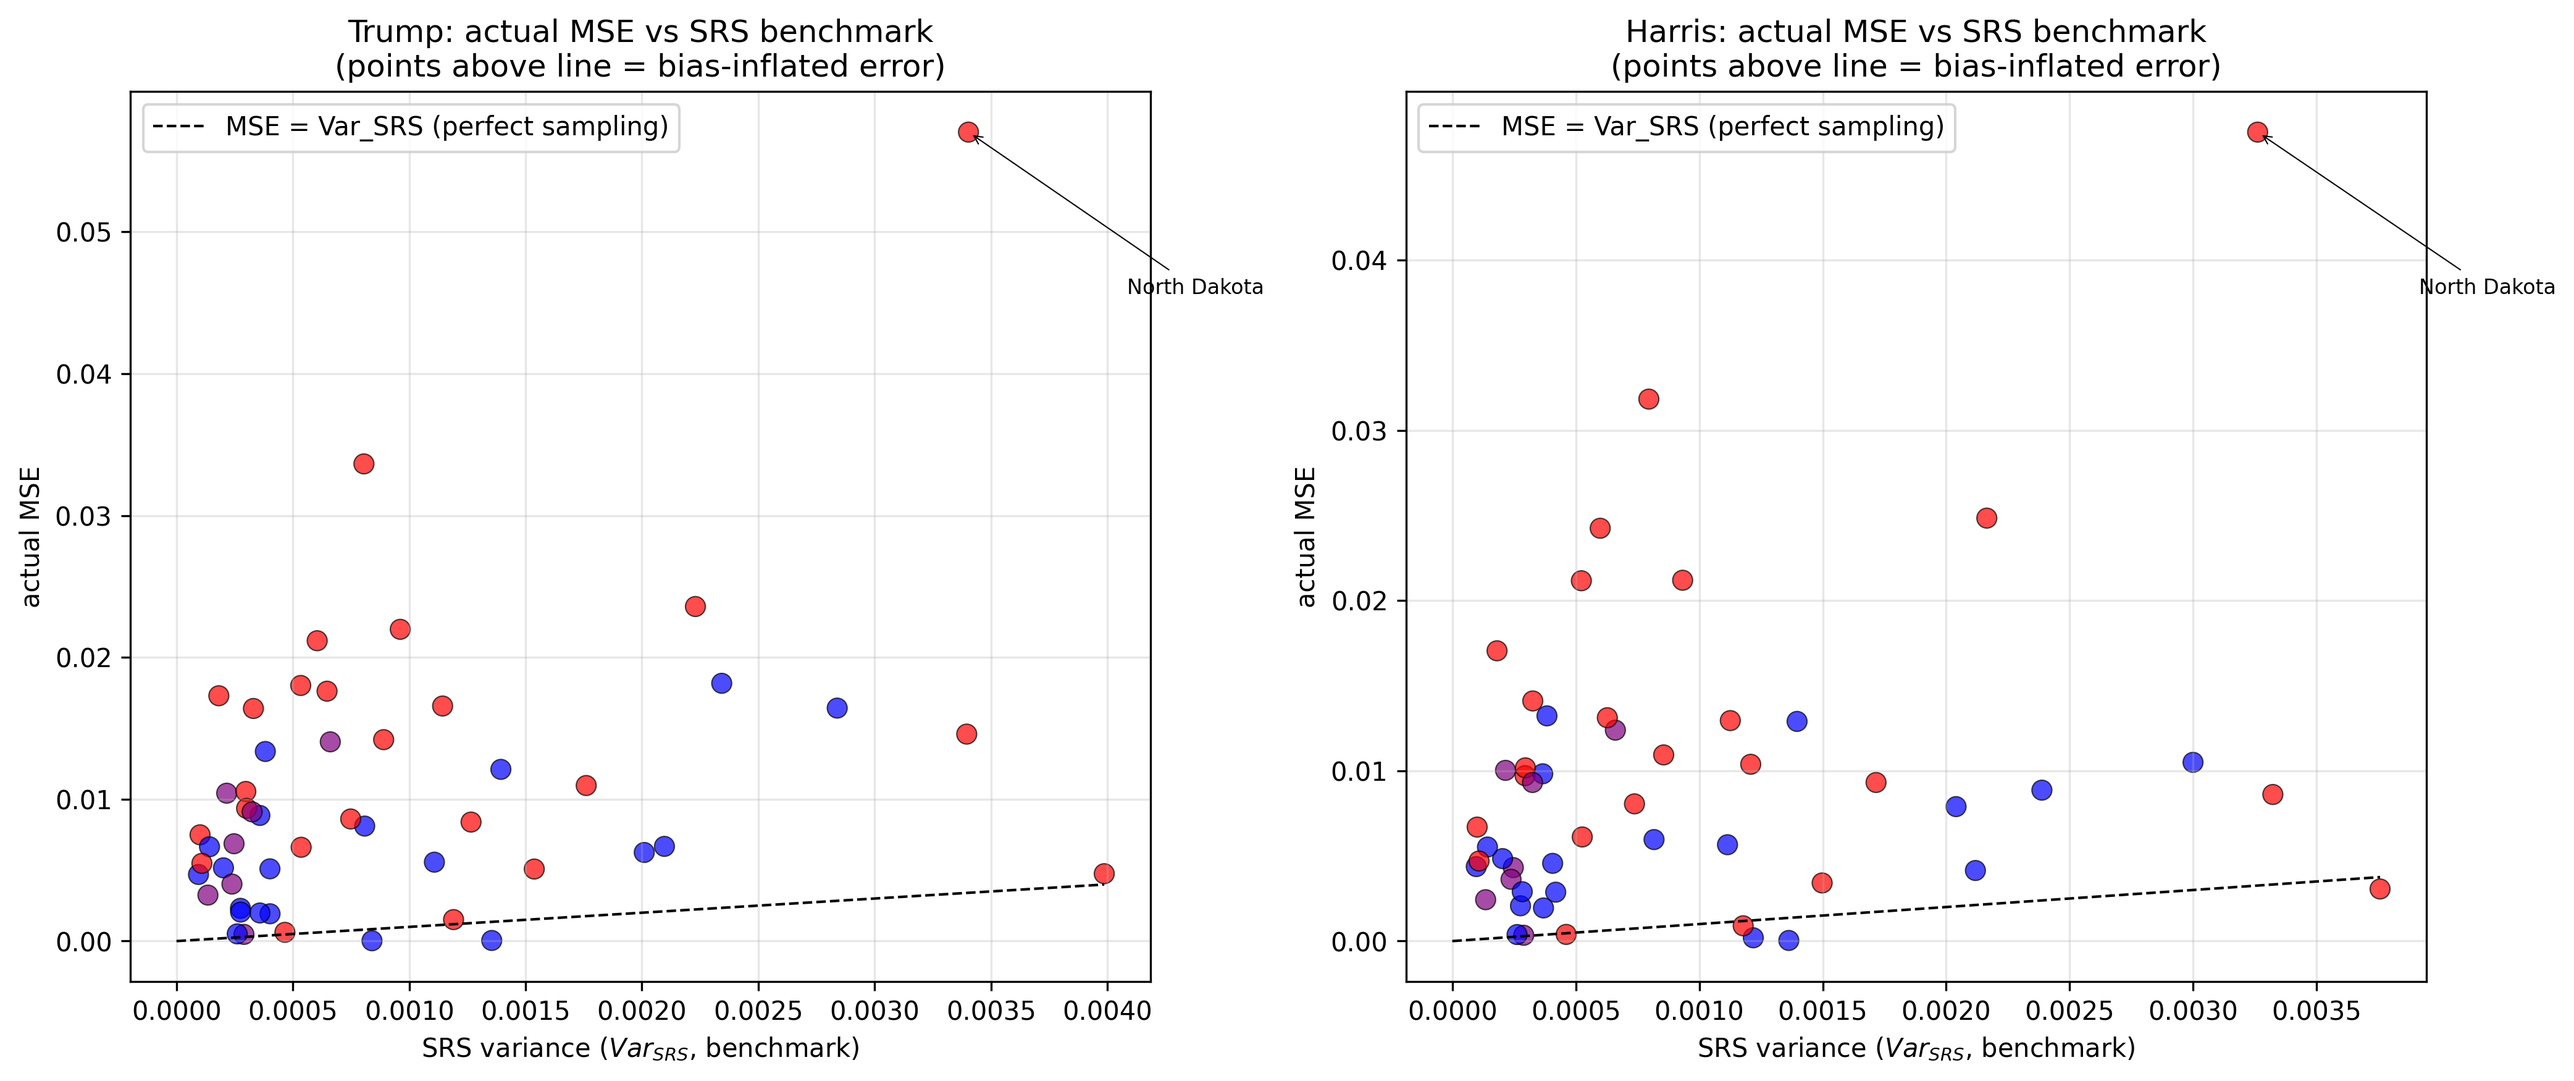
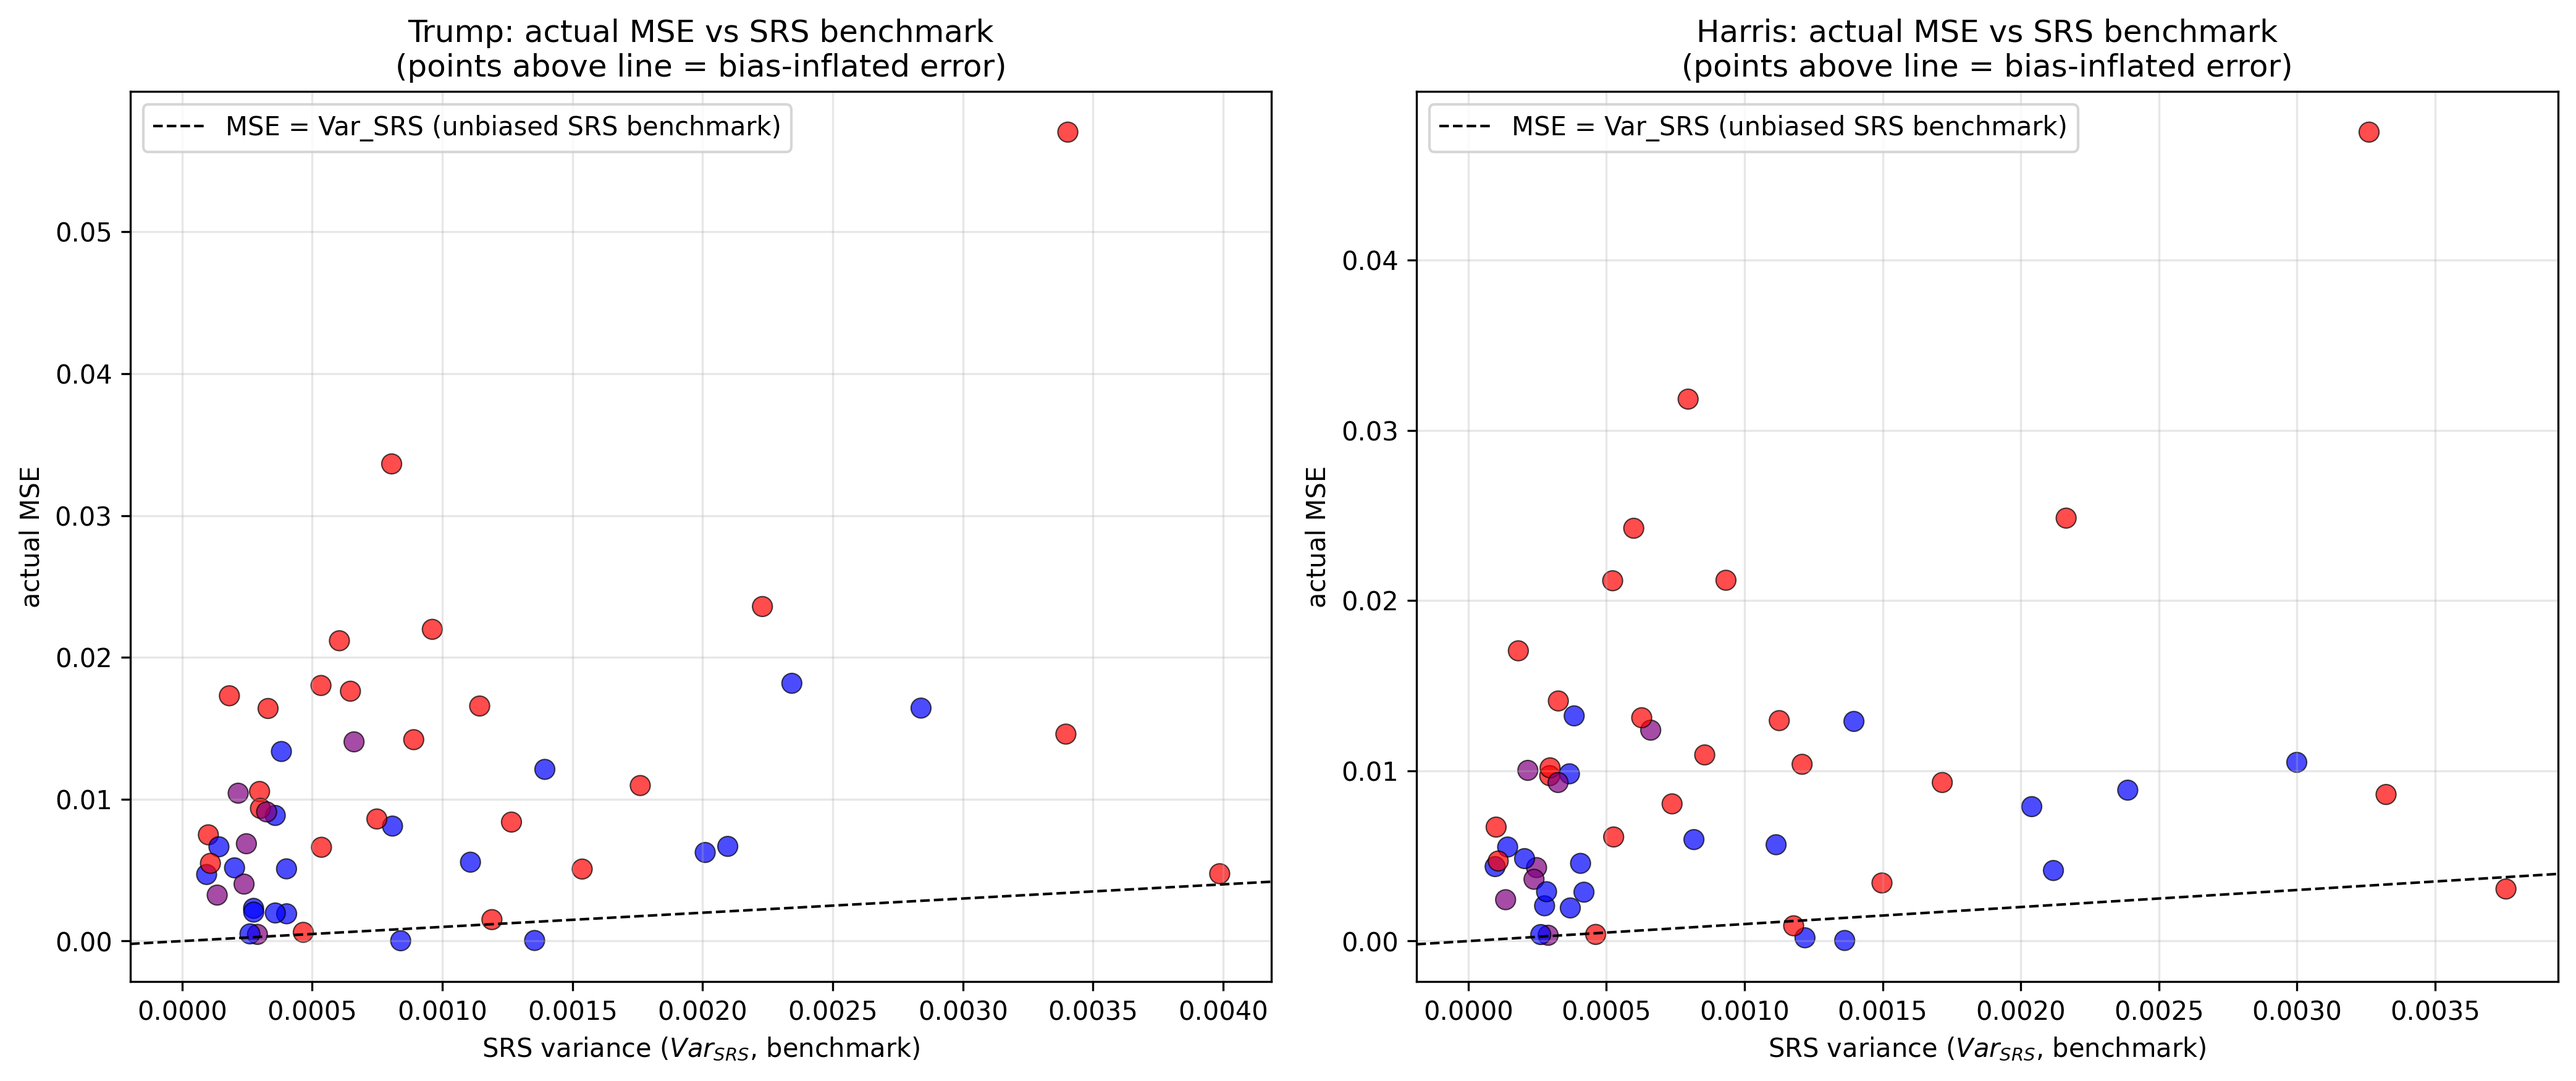
additional state level stats graph updates

diff --git a/mengrep_visualization_state_values.py b/mengrep_visualization_state_values.py
@@ -48,8 +48,8 @@ fig, axes = plt.subplots(1, 2, figsize=(14, 6))
 ax = axes[0]
 ax.scatter(df["Var_SRS_trump"], df["MSE_trump"], 
            c=df["color"], alpha=0.7, edgecolors="black", linewidths=0.5, s=60)
-ax.plot([0, df["Var_SRS_trump"].max()], [0, df["Var_SRS_trump"].max()], 
-        'k--', linewidth=1, label='MSE = Var_SRS (unbiased SRS benchmark)') # diagonal line represents unbiased SRS
+ax.axline((0, 0), slope=1, linestyle='--', color='k',
+          linewidth=1, label='MSE = Var_SRS (unbiased SRS benchmark)') # diagonal line represents unbiased SRS
 ax.set_xlabel(r"SRS variance ($Var_{SRS}$, benchmark)")
 ax.set_ylabel(r"actual MSE")
 ax.set_title(r"Trump: actual MSE vs SRS benchmark" + "\n" + 
@@ -61,8 +61,8 @@ ax.grid(alpha=0.3)
 ax = axes[1]
 ax.scatter(df["Var_SRS_harris"], df["MSE_harris"], 
            c=df["color"], alpha=0.7, edgecolors="black", linewidths=0.5, s=60)
-ax.plot([0, df["Var_SRS_harris"].max()], [0, df["Var_SRS_harris"].max()], 
-        'k--', linewidth=1, label='MSE = Var_SRS (unbiased SRS benchmark)') # diagonal line represents unbiased SRS
+ax.axline((0, 0), slope=1, linestyle='--', color='k',
+          linewidth=1, label='MSE = Var_SRS (unbiased SRS benchmark)') # diagonal line represents unbiased SRS
 ax.set_xlabel(r"SRS variance ($Var_{SRS}$, benchmark)")
 ax.set_ylabel(r"actual MSE")
 ax.set_title(r"Harris: actual MSE vs SRS benchmark" + "\n" + 
